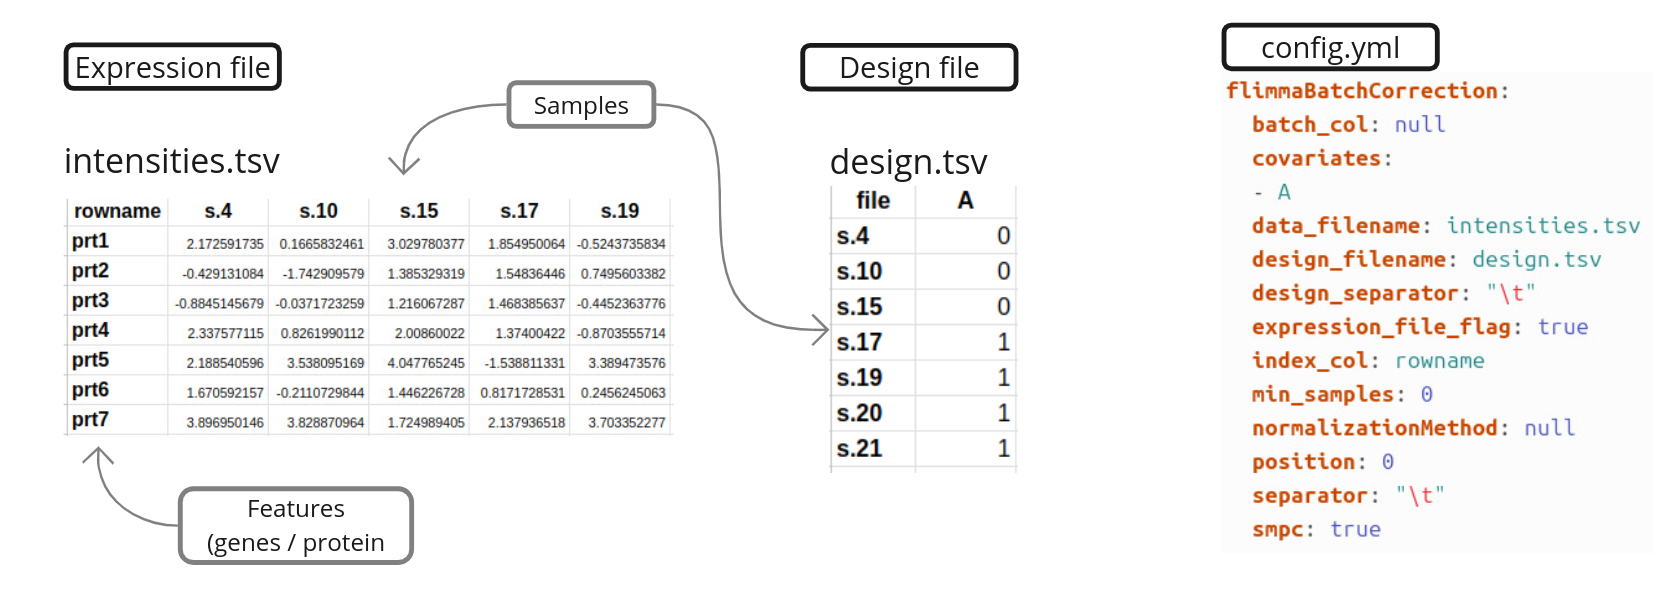
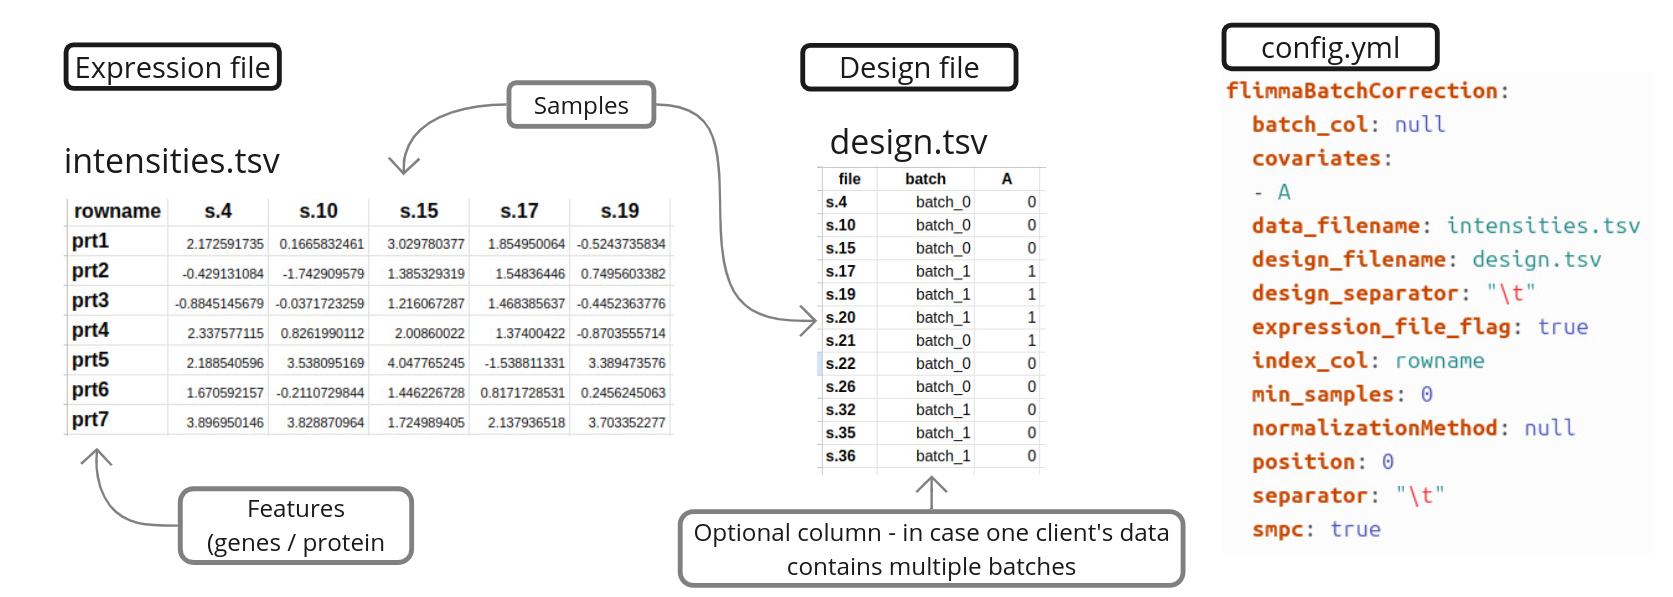
updated readme batch col info config

diff --git a/docs/reproduce.md b/docs/reproduce.md
@@ -16,6 +16,7 @@ This guide provides step-by-step instructions to reproduce the analyses and resu
     - [2. Obtaining Federated Corrected Data](#2-obtaining-federated-corrected-data)
     - [3. Obtaining Centrally Corrected Data](#3-obtaining-centrally-corrected-data)
     - [4. Comparing Federated and Central Corrections](#4-comparing-federated-and-central-corrections)
+    - [5. Produce tables and figures](#5-produce-tables-and-figures)
   - [Utility Scripts Overview](#utility-scripts-overview)
   - [Troubleshooting](#troubleshooting)
   - [Additional Resources](#additional-resources)
@@ -147,13 +148,11 @@ fedRBE/
 │       ├── simulation_func.R
 │       ├── upset_plot.py
 │       └── utils_analyse.py
-├── evaluation/                                 # Main evaluation scripts
+├── evaluation/                                 # Main evaluation scripts to produce results and figures
 │   ├── eval_simulation/                        # Evaluations on simulated data
-│   ├── evaluation_microarray.ipynb
+│   ├── evaluation_microarray.ipynb             # Evaluation of microarray datasets
 │   ├── evaluation_microbiome.ipynb
 │   ├── evaluation_proteomics.ipynb
-│   ├── evaluation_simulated_3runs.ipynb
-│   └── evaluation_simulated.ipynb
 └── [other directories/files]
 ```
 
@@ -240,6 +239,10 @@ Output:
 
 - Comparison Metrics: Printed in the console and saved as `fed_vc_cent_results.tsv` in the `evaluation_data/ directory.
 - Visualizations: Generated plots showcasing the comparison results.
+
+### 5. Produce tables and figures
+
+To reproduce the tables and figures from the preprint, run the provided Jupyter notebooks in the `evaluation/` directory.
 
 ## Utility Scripts Overview
 

diff --git a/README.md b/README.md
@@ -4,6 +4,7 @@
 [![License](https://img.shields.io/github/license/Freddsle/fedRBE)](LICENSE)
 [![ArXiv](https://img.shields.io/badge/ArXiv-2412.05894-B31B1B)](https://arxiv.org/abs/2412.05894)
 [![Documentation](https://img.shields.io/badge/Documentation-GitHub%20Pages-007EC6)](https://freddsle.github.io/fedRBE/)
+[![GitHub](https://img.shields.io/badge/GitHub-Freddsle%2FfedRBE-181717)](https://github.com/Freddsle/fedRBE)
 
 ---
 
@@ -40,6 +41,7 @@ This repository serves two main purposes:
 For usage instructions and how-to guides, refer to the [How To Guide](https://freddsle.github.io/fedRBE/docs/how_to_guide.html).
 For more detailed information on the `fedRBE` implementation and configuration, see the [README](https://freddsle.github.io/fedRBE/batchcorrection/).
 
+The App is located at [FeatureCloud](https://featurecloud.ai/app/fedrbe) and can be used directly from the platform.
 
 ---
 
@@ -103,7 +105,7 @@ docker pull featurecloud.ai/bcorrect:latest
 ```
 
 _**Note**: 
-Alternatively, If you are using a non-linux/amd64 architecture (e.g., Mac M-series), you may need to build the image locally as shown below._
+Alternatively, If you are using a ARM architecture (e.g., Mac M-series), you may need to build the image locally as shown below._
 
 Navigate to the `batchcorrection` directory and build the Docker image:
 

diff --git a/docs/how_to_guide.md b/docs/how_to_guide.md
@@ -114,6 +114,7 @@ For more details on the `config.yml` parameters, see the [main README](https://f
 2. **Client Setup**:
    - **Client A, B, C**: Place `expression_data_client.csv` and `config.yml` in a local folder.
    - Adjust `config.yml` parameters as needed (e.g., change `data_filename` to match the correct file name).
+   - In case of multiple batches in one client, the client should provide a `design.csv` file with batch information and specify this column name in the `config.yml` parameter `batch_col`.
    
 3. **Joining the Project**:
    - Each client uses the FeatureCloud to login and join the project using the provided token.

diff --git a/batchcorrection/README.md b/batchcorrection/README.md
@@ -151,6 +151,12 @@ flimmaBatchCorrection:
   design_separator: "\t"
     # Separator for design file.
 
+  batch_col: "batch"
+    # Column name in the design file that contains batch information 
+    # (if multiple batches present in one client).
+    # If not given, all client data is considered as one batch.
+    # format: str
+
   normalizationMethod: "log2(x+1)"
     # Normalization: "log2(x+1)" or None.
     # If None, no normalization is applied.
